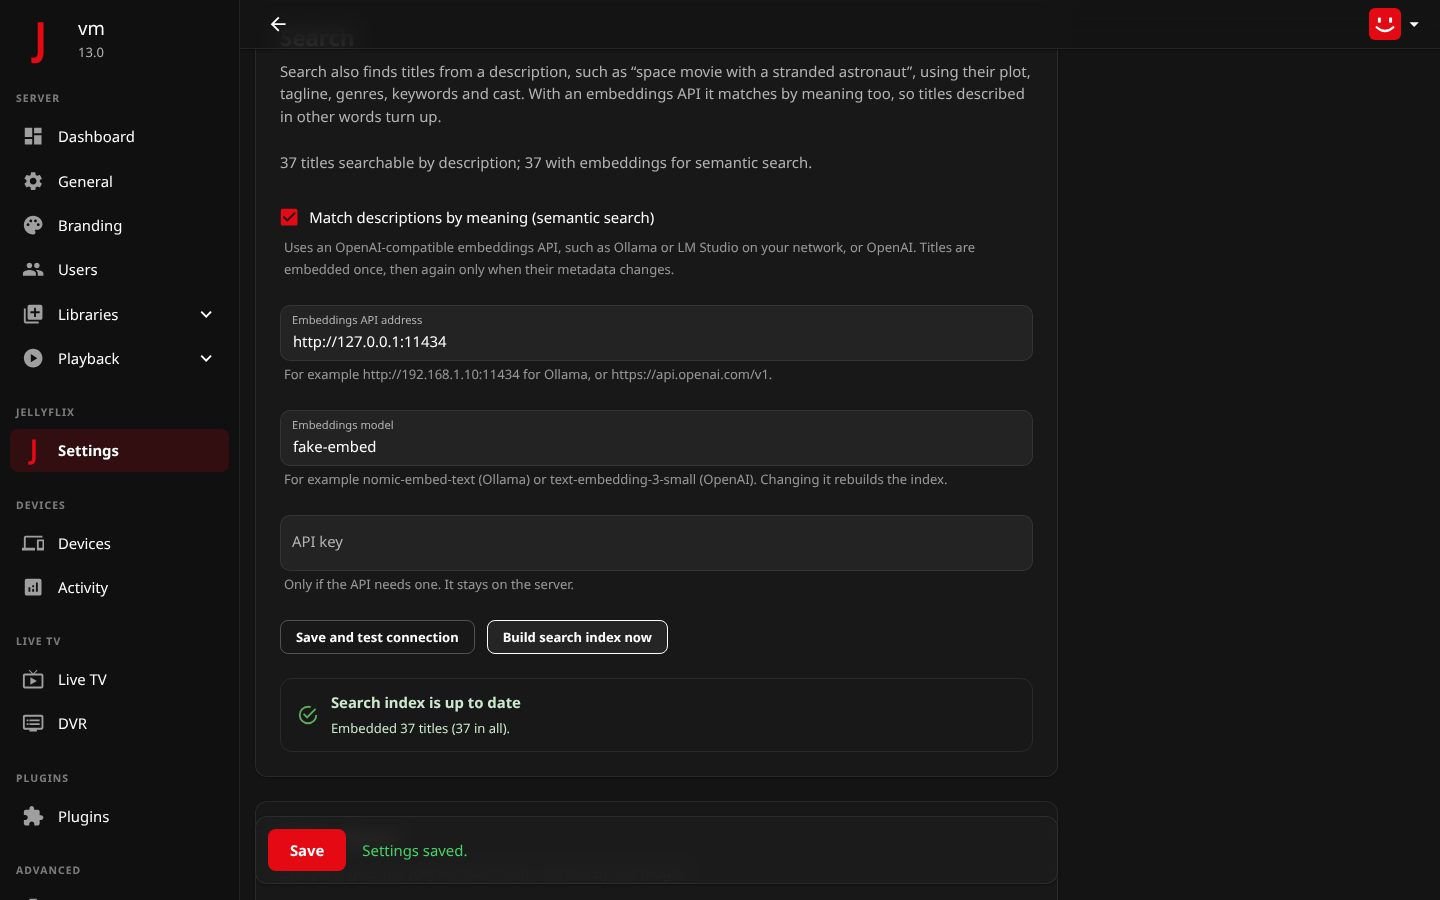
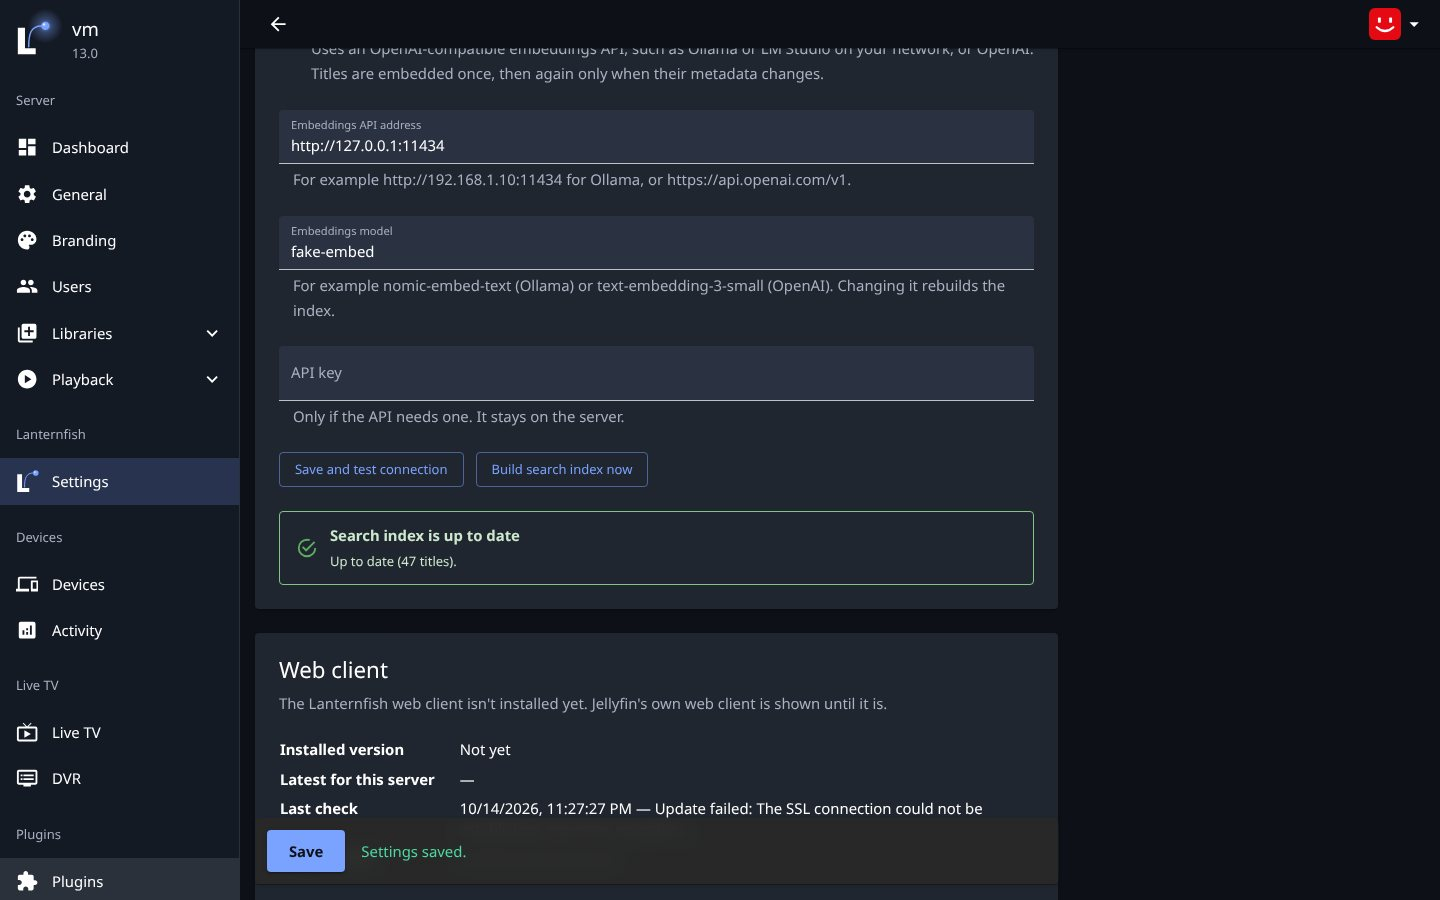
Rebrand to Lanternfish
The plugin, its catalog entry, scheduled tasks and settings page are named
Lanternfish, with the new catalog image and banner. The plugin id, settings
file, API routes and repository addresses are unchanged, so installed
copies update in place. Releases are titled Lanternfish and packaged as
lanternfish_<version>.zip. README and screenshots updated.

Claude-Session: https://claude.ai/code/session_01UcX3L2D4GVSLMbVKHiMSry

Changed region(s): [[0.0, 0.0, 0.7188, 0.7156], [0.0, 0.6844, 0.75, 1.0], [0.125, 0.3422, 0.1562, 0.3733]]

diff --git a/src/JellyFlix/Configuration/configPage.html b/src/JellyFlix/Configuration/configPage.html
@@ -2,7 +2,7 @@
 <html lang="en">
 <head>
     <meta charset="utf-8">
-    <title>JellyFlix</title>
+    <title>Lanternfish</title>
 </head>
 <body>
     <div id="JellyFlixConfigPage" data-role="page" class="page type-interior pluginConfigurationPage" data-require="emby-input,emby-button,emby-checkbox">
@@ -102,16 +102,16 @@
                     <div class="checkboxContainer checkboxContainer-withDescription">
                         <label>
                             <input is="emby-checkbox" type="checkbox" id="WebUpdatesEnabled" />
-                            <span>Automatically install new JellyFlix web client releases</span>
+                            <span>Automatically install new Lanternfish web client releases</span>
                         </label>
                         <div class="fieldDescription checkboxFieldDescription">Checked at startup and every six hours. Only releases built for this Jellyfin version are installed.</div>
                     </div>
                     <div class="checkboxContainer checkboxContainer-withDescription">
                         <label>
                             <input is="emby-checkbox" type="checkbox" id="ServeWebClient" />
-                            <span>Serve the JellyFlix web client</span>
+                            <span>Serve the Lanternfish web client</span>
                         </label>
-                        <div class="fieldDescription checkboxFieldDescription">Replaces Jellyfin's own web client with the installed JellyFlix one. Turn off to get Jellyfin's stock web client back.</div>
+                        <div class="fieldDescription checkboxFieldDescription">Replaces Jellyfin's own web client with the installed Lanternfish one. Turn off to get Jellyfin's stock web client back.</div>
                     </div>
                     <div class="inputContainer">
                         <input is="emby-input" id="WebReleasesRepository" type="text" label="Release repository (owner/name)" />
@@ -155,13 +155,13 @@
                     var help = page.querySelector('#webDirHelp');
                     var message;
                     if (status.IsServerUsingInstall) {
-                        message = '<b>Users get the JellyFlix web client.</b> ' + (status.IsServedByPlugin
+                        message = '<b>Users get the Lanternfish web client.</b> ' + (status.IsServedByPlugin
                             ? 'It is served by this plugin, so nothing needs configuring on the server.'
                             : 'Jellyfin\'s web folder points at the install folder.');
                     } else if (!status.Installed) {
-                        message = '<b>The JellyFlix web client isn\'t installed yet.</b> It is downloaded automatically at startup; press <b>Check for updates now</b> to get it straight away. Until then Jellyfin\'s own web client is shown.';
+                        message = '<b>The Lanternfish web client isn\'t installed yet.</b> It is downloaded automatically at startup; press <b>Check for updates now</b> to get it straight away. Until then Jellyfin\'s own web client is shown.';
                     } else {
-                        message = '<b>Jellyfin\'s own web client is shown</b> because serving the JellyFlix web client is turned off.';
+                        message = '<b>Jellyfin\'s own web client is shown</b> because serving the Lanternfish web client is turned off.';
                     }
                     help.style.display = 'block';
                     help.innerHTML = message;

diff --git a/src/JellyFlix/WebUpdater/WebUpdateTask.cs b/src/JellyFlix/WebUpdater/WebUpdateTask.cs
@@ -8,7 +8,7 @@ using MediaBrowser.Model.Tasks;
 namespace JellyFlix.WebUpdater;
 
 /// <summary>
-/// The "Update JellyFlix web client" scheduled task: at startup and every six hours.
+/// The "Update Lanternfish web client" scheduled task: at startup and every six hours.
 /// </summary>
 public class WebUpdateTask : IScheduledTask
 {
@@ -33,10 +33,10 @@ public class WebUpdateTask : IScheduledTask
     public string Key => "JellyFlixWebUpdate";
 
     /// <inheritdoc />
-    public string Description => "Downloads and installs the newest JellyFlix web client built for this Jellyfin version.";
+    public string Description => "Downloads and installs the newest Lanternfish web client built for this Jellyfin version.";
 
     /// <inheritdoc />
-    public string Category => "JellyFlix";
+    public string Category => "Lanternfish";
 
     /// <inheritdoc />
     public async Task ExecuteAsync(IProgress<double> progress, CancellationToken cancellationToken)

diff --git a/src/JellyFlix/Search/SearchIndexTask.cs b/src/JellyFlix/Search/SearchIndexTask.cs
@@ -7,7 +7,7 @@ using MediaBrowser.Model.Tasks;
 namespace JellyFlix.Search;
 
 /// <summary>
-/// The "Build JellyFlix search index" scheduled task: embeds new and changed titles for semantic search.
+/// The "Build Lanternfish search index" scheduled task: embeds new and changed titles for semantic search.
 /// </summary>
 public class SearchIndexTask : IScheduledTask
 {
@@ -32,7 +32,7 @@ public class SearchIndexTask : IScheduledTask
     public string Description => "Embeds new and changed titles so search can match descriptions by meaning. Does nothing while semantic search is off.";
 
     /// <inheritdoc />
-    public string Category => "JellyFlix";
+    public string Category => "Lanternfish";
 
     /// <inheritdoc />
     public async Task ExecuteAsync(IProgress<double> progress, CancellationToken cancellationToken)

diff --git a/src/JellyFlix/Plugin.cs b/src/JellyFlix/Plugin.cs
@@ -39,13 +39,13 @@ public class Plugin : BasePlugin<PluginConfiguration>, IHasWebPages
     public static Plugin? Instance { get; private set; }
 
     /// <inheritdoc />
-    public override string Name => "JellyFlix";
+    public override string Name => "Lanternfish";
 
     /// <inheritdoc />
     public override Guid Id => PluginId;
 
     /// <inheritdoc />
-    public override string Description => "Netflix-style household profiles, personalized recommendations and automatic JellyFlix web client updates.";
+    public override string Description => "Household profiles, personalized recommendations, requests and automatic Lanternfish web client updates.";
 
     /// <summary>
     /// Carries the profile settings over from the separate JellyFlix Profiles plugin this one replaces. Its settings

diff --git a/src/JellyFlix/WebUpdater/WebUpdateService.cs b/src/JellyFlix/WebUpdater/WebUpdateService.cs
@@ -201,8 +201,8 @@ public sealed class WebUpdateService : IDisposable
         if (target is null)
         {
             return newest is null
-                ? "No JellyFlix web releases found."
-                : $"No JellyFlix web release is built for Jellyfin {serverVersion} yet (newest is for {newest.ServerVersion}).";
+                ? "No Lanternfish web releases found."
+                : $"No Lanternfish web release is built for Jellyfin {serverVersion} yet (newest is for {newest.ServerVersion}).";
         }
 
         var installed = ReadInstalled(InstallPath);

diff --git a/README.md b/README.md
@@ -1,8 +1,8 @@
-<p align="center"><img alt="JellyFlix" src="images/banner.png"/></p>
+<p align="center"><img alt="Lanternfish" src="images/banner.png"/></p>
 
-# JellyFlix plugin
+# Lanternfish plugin
 
-The server side of [JellyFlix](https://github.com/yourmomsbasement/JellyFlix-Web), a Netflix-style Jellyfin. One plugin
+The server side of [Lanternfish](https://github.com/yourmomsbasement/JellyFlix-Web), a Netflix-style Jellyfin. One plugin
 that does all of this:
 
 - **Profiles**: one household login, several Netflix-style profiles ("Who's watching?"). Each profile is a hidden
@@ -21,7 +21,7 @@ that does all of this:
   like it. See [end-credit companion](#end-credit-companion).
 - **Seasonal themes and dynamic colors**: Halloween, Christmas and summer looks for the home page with curated
   shelves, and accent colors taken from each title's artwork. See [appearance](#appearance).
-- **Web client**: downloads the JellyFlix web client from
+- **Web client**: downloads the Lanternfish web client from
   [JellyFlix-Web releases](https://github.com/yourmomsbasement/JellyFlix-Web/releases), serves it in place of Jellyfin's
   own and keeps it up to date.
 
@@ -30,36 +30,39 @@ that does all of this:
 <img alt="TV home" src="docs/screenshots/tv-home.jpg" width="49%"/>
 </p>
 
-Requires **Jellyfin 13** (the `unstable` builds), the same version as the JellyFlix web client.
+Lanternfish was called JellyFlix until October 2026. Installed copies update to the new name in place: the plugin's id,
+settings (`JellyFlix.xml`), API (`/JellyFlix/...`) and the repository addresses are unchanged.
+
+Requires **Jellyfin 13** (the `unstable` builds), the same version as the Lanternfish web client.
 
 ## Install
 
 1. In Jellyfin, open **Dashboard → Plugins → Repositories** (Catalog → ⚙ on some versions) and add a repository:
-   - Name: `JellyFlix`
+   - Name: `Lanternfish`
    - URL: `https://raw.githubusercontent.com/yourmomsbasement/JellyFlix-Plugin/main/manifest.json`
-2. Install **JellyFlix** from the catalog and restart Jellyfin.
+2. Install **Lanternfish** from the catalog and restart Jellyfin.
 
-That's it. On startup the plugin downloads the newest JellyFlix web client built for your Jellyfin version and serves it
+That's it. On startup the plugin downloads the newest Lanternfish web client built for your Jellyfin version and serves it
 at `/web` in place of the stock one, on Linux, Docker and Windows alike: no `--webdir`, environment variable or file
 copying. New releases are installed automatically at startup and every six hours, and Jellyfin package upgrades no
-longer replace the JellyFlix web client.
+longer replace the Lanternfish web client.
 
-Settings live under **JellyFlix → Settings** in the dashboard's side menu (or **Dashboard → Plugins → JellyFlix**), and
-the dashboard home gets a JellyFlix card. See [settings](#settings).
+Settings live under **Lanternfish → Settings** in the dashboard's side menu (or **Dashboard → Plugins → Lanternfish**), and
+the dashboard home gets a Lanternfish card. See [settings](#settings).
 
 <p align="center">
 <img alt="Dashboard" src="docs/screenshots/dashboard.jpg" width="49%"/>
-<img alt="JellyFlix settings" src="docs/screenshots/dashboard-jellyflix.jpg" width="49%"/>
+<img alt="Lanternfish settings" src="docs/screenshots/dashboard-jellyflix.jpg" width="49%"/>
 </p>
 
-**Updating:** new plugin versions show up in **Dashboard → Plugins**; update JellyFlix there and restart Jellyfin.
+**Updating:** new plugin versions show up in **Dashboard → Plugins**; update Lanternfish there and restart Jellyfin.
 The settings page tells you when a setting needs a newer plugin than the one installed.
 
 **Upgrading from the separate *JellyFlix Profiles* / *JellyFlix Recommendations* plugins:** just install this one.
 On its first start it removes the old plugins, carries their settings over and asks for one more restart (the dashboard
 shows *Restart required*). Households and profiles are kept.
 
-**Getting Jellyfin's own web client back:** untick **Serve the JellyFlix web client** in the JellyFlix settings. If
+**Getting Jellyfin's own web client back:** untick **Serve the Lanternfish web client** in the Lanternfish settings. If
 the web client itself is broken and you can't reach the dashboard, set `<ServeWebClient>false</ServeWebClient>` in
 `plugins/configurations/JellyFlix.xml` in Jellyfin's data folder (or delete the `jellyflix-web` folder there) and
 restart Jellyfin.
@@ -80,8 +83,8 @@ restart Jellyfin.
 | Embeddings API address / model / API key | — / `nomic-embed-text` / — | An OpenAI-compatible embeddings API, e.g. Ollama. |
 | Seasonal home page | Automatic | Automatic, Off, Halloween, Christmas or Summer. |
 | Dynamic interface colors | On | Accent colors from the selected title's artwork. |
-| Serve the JellyFlix web client | On | Serve JellyFlix at `/web`; off gives Jellyfin's own web client back. |
-| Install new JellyFlix web releases automatically | On | At startup and every six hours. |
+| Serve the Lanternfish web client | On | Serve Lanternfish at `/web`; off gives Jellyfin's own web client back. |
+| Install new Lanternfish web releases automatically | On | At startup and every six hours. |
 | Release repository | `yourmomsbasement/JellyFlix-Web` | Where web client releases come from. |
 
 Saving reads the settings back from the server and names any it didn't keep (for example, a setting an older plugin
@@ -91,7 +94,7 @@ a progress bar while they run, then whether it worked and, if not, why.
 
 ## Requests
 
-In the JellyFlix settings, turn on **Requests**, pick the request service (**Seerr** for Jellyseerr / Overseerr, or
+In the Lanternfish settings, turn on **Requests**, pick the request service (**Seerr** for Jellyseerr / Overseerr, or
 **Ombi**), enter its address (e.g. `http://192.168.1.10:5055` for Seerr, `http://192.168.1.10:3579` for Ombi) and API
 key, then press **Save and test connection**. A panel underneath confirms the connection and the service's version, or
 shows the service's own error (such as an invalid API key) and what to check.
@@ -176,7 +179,7 @@ description** row under the usual results, leaving out titles the name search al
   in meaning are merged with the word matches, so "marooned on another planet" finds the same film. For Ollama, run
   `ollama pull nomic-embed-text` and enter `http://<ollama-host>:11434`.
 - **Save and test connection** embeds a sample and shows the model and its vector size, or the API's error.
-  **Build search index now** embeds the titles in the background with a progress bar; the **Build JellyFlix search
+  **Build search index now** embeds the titles in the background with a progress bar; the **Build Lanternfish search
   index** scheduled task does the same at startup and daily. Only new titles, and titles whose metadata changed, are
   embedded again; changing the model starts over. Vectors are kept in `jellyflix-search` in Jellyfin's data folder.
 - Results only include titles the profile may see, so parental controls and library access apply. If the embeddings
@@ -197,7 +200,7 @@ artwork. **Use library artwork** goes back.
 
 ## End-credit companion
 
-When a movie finishes (it played to the credits, and nothing is queued after it), JellyFlix opens a companion page once
+When a movie finishes (it played to the credits, and nothing is queued after it), Lanternfish opens a companion page once
 the player closes:
 
 - **Next in *collection***: the following film in the movie's collection (a Jellyfin box set, ordered by release),
@@ -217,7 +220,7 @@ It works in TV mode too, with Play focused first. Back returns to where playback
 
 - Releases are read newest first, and the check stops at the first one built for the running Jellyfin version
   (major.minor), so a check normally downloads one small `release.json` and, if it's new, the ~36 MB client.
-- The **Update JellyFlix web client** scheduled task (Dashboard → Scheduled Tasks → JellyFlix) shows its progress
+- The **Update Lanternfish web client** scheduled task (Dashboard → Scheduled Tasks → Lanternfish) shows its progress
   while the client downloads. A download that stalls gives up after 15 minutes, so it never blocks later checks.
 - Only releases built for the running Jellyfin version are installed, and every download is checked against the SHA-256
   published with the release.
@@ -271,6 +274,7 @@ All endpoints use the signed-in user's session.
 
 | Version | Changes |
 | --- | --- |
+| 1.4.1 | Renamed to Lanternfish, with the new catalog image. |
 | 1.4.0 | Ombi as a request service alongside Seerr. |
 | 1.3.0 | Seasonal home pages (Halloween, Christmas, summer) with curated shelves, and the dynamic colors setting. |
 | 1.2.1 | Profile avatars: generated icons (`AvatarIcon`) and photo uploads the household owner can make for any profile. |
@@ -282,7 +286,7 @@ All endpoints use the signed-in user's session.
 
 ## Development
 
-The plugin builds against the JellyFlix server fork, included as the `jellyfin-server` submodule, so it always matches
+The plugin builds against the Lanternfish server fork, included as the `jellyfin-server` submodule, so it always matches
 the Jellyfin version it targets.
 
 ```sh
